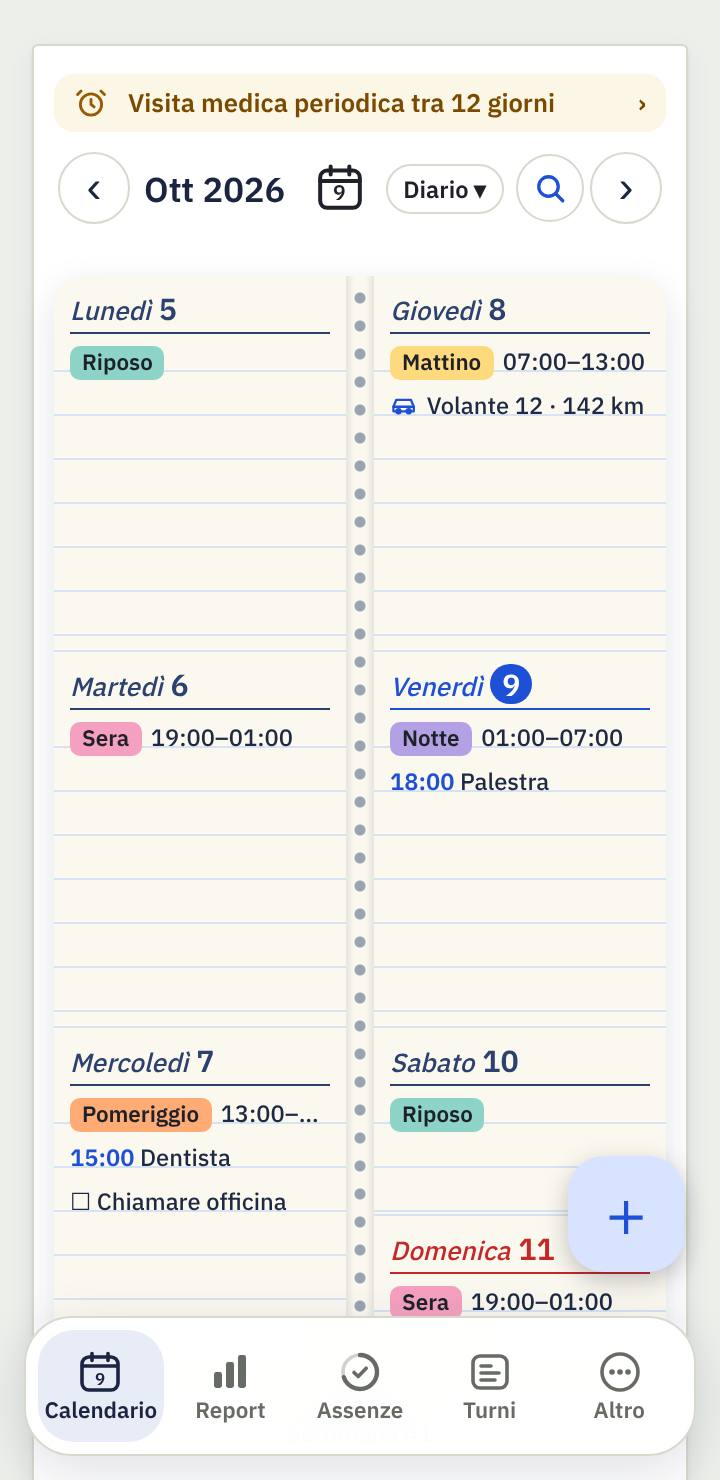
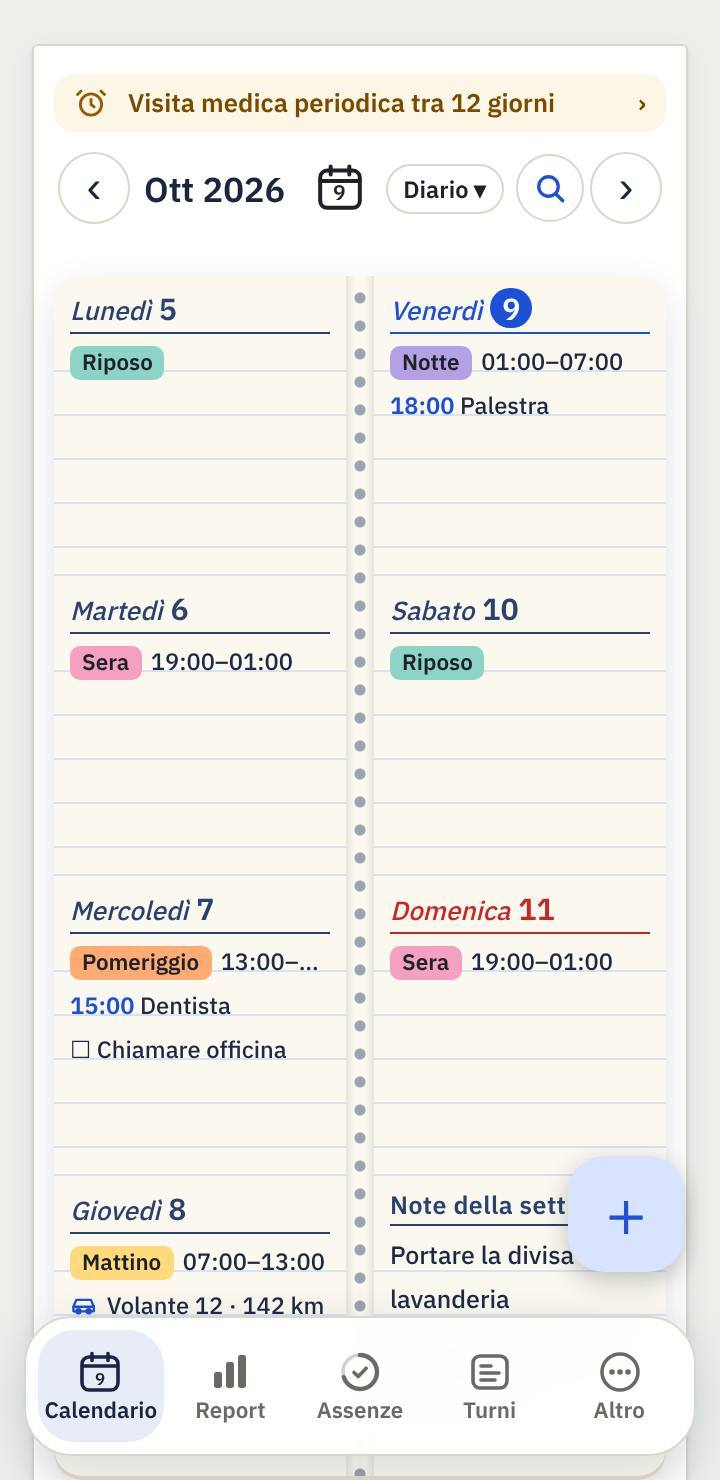
Guida Turni: Diario con Note della settimana (v3.8.29)
Claude-Session: https://claude.ai/code/session_01PSeREU5gDDB7bRrUAU7GkJ

diff --git a/guida-turni.html b/guida-turni.html
@@ -23,7 +23,7 @@ a{color:#2E4A8F}
 @media(max-width:600px){.sez{grid-template-columns:1fr}.sez img{width:min(240px,70vw);margin:4px auto 0}.tab td:first-child{white-space:normal}}
 </style></head><body>
 <h1>Guida a Turni & Accessorio PS</h1>
-<p class="agg">Come si usa l'app, passo per passo · aggiornata alla versione 3.8.28</p>
+<p class="agg">Come si usa l'app, passo per passo · aggiornata alla versione 3.8.29</p>
 <nav><a href="#inizio">Primi passi</a><a href="#calendario">Calendario</a><a href="#cerca">Cerca o chiedi</a><a href="#voce">Detta a voce</a><a href="#giorno">Il giorno e le indennità</a><a href="#sequenza">Turni</a><a href="#report">Report</a><a href="#assenze">Assenze</a><a href="#altro">Altro</a><a href="#promemoria">Promemoria e widget</a><a href="#utilita">Utilità</a><a href="#link">Link utili</a><a href="#backup">Backup</a><a href="#domande">Domande</a></nav>
 
 <h2 id="inizio">1. Primi passi</h2>
@@ -55,7 +55,7 @@ a{color:#2E4A8F}
 <li>Se una <b>scadenza</b> è vicina (entro un mese), compare in una riga sottile sopra il mese; toccandola apri le Scadenze.</li>
 </ul>
 </div><img src="turni/guida/calendario.jpg" alt="Calendario del mese" loading="lazy"></div>
-<div class="sez"><div><p><b>Vista Diario</b> (da <b>Mese ▾ → Diario</b>): la settimana come un'agenda di carta, su due pagine con la spirale. A sinistra lunedì, martedì e mercoledì; a destra giovedì, venerdì e il fine settimana. Per ogni giorno: turno con orario, straordinario, appuntamenti con l'ora, servizio svolto, note, veicolo e scadenze. <b>Scorri col dito</b> (o usa ‹ ›) per girare pagina; <b>tocca un giorno</b> per modificarlo. Con il tema scuro la carta diventa blu notte.</p></div><img src="turni/guida/diario.jpg" alt="Vista Diario" loading="lazy"></div>
+<div class="sez"><div><p><b>Vista Diario</b> (da <b>Mese ▾ → Diario</b>): la settimana come un'agenda di carta, su due pagine con la spirale. Otto riquadri uguali: a sinistra da lunedì a giovedì, a destra venerdì, sabato, domenica e le <b>Note della settimana</b>, da scrivere direttamente sulle righe (si salvano da sole, entrano nel backup e le trova anche la lente). Per ogni giorno: turno con orario, straordinario, appuntamenti con l'ora, servizio svolto, note, veicolo e scadenze. <b>Scorri col dito</b> (o usa ‹ ›) per girare pagina; <b>tocca un giorno</b> per modificarlo. Con il tema scuro la carta diventa blu notte.</p></div><img src="turni/guida/diario.jpg" alt="Vista Diario" loading="lazy"></div>
 <div class="sez"><div><p><b>Vista Anno</b>: tutto l'anno in una schermata, con i turni a colori e le ferie in evidenza.</p></div><img src="turni/guida/anno.jpg" alt="Vista Anno" loading="lazy"></div>
 <h3 id="cerca">Cerca o chiedi (la lente)</h3>
 <div class="sez"><div>
